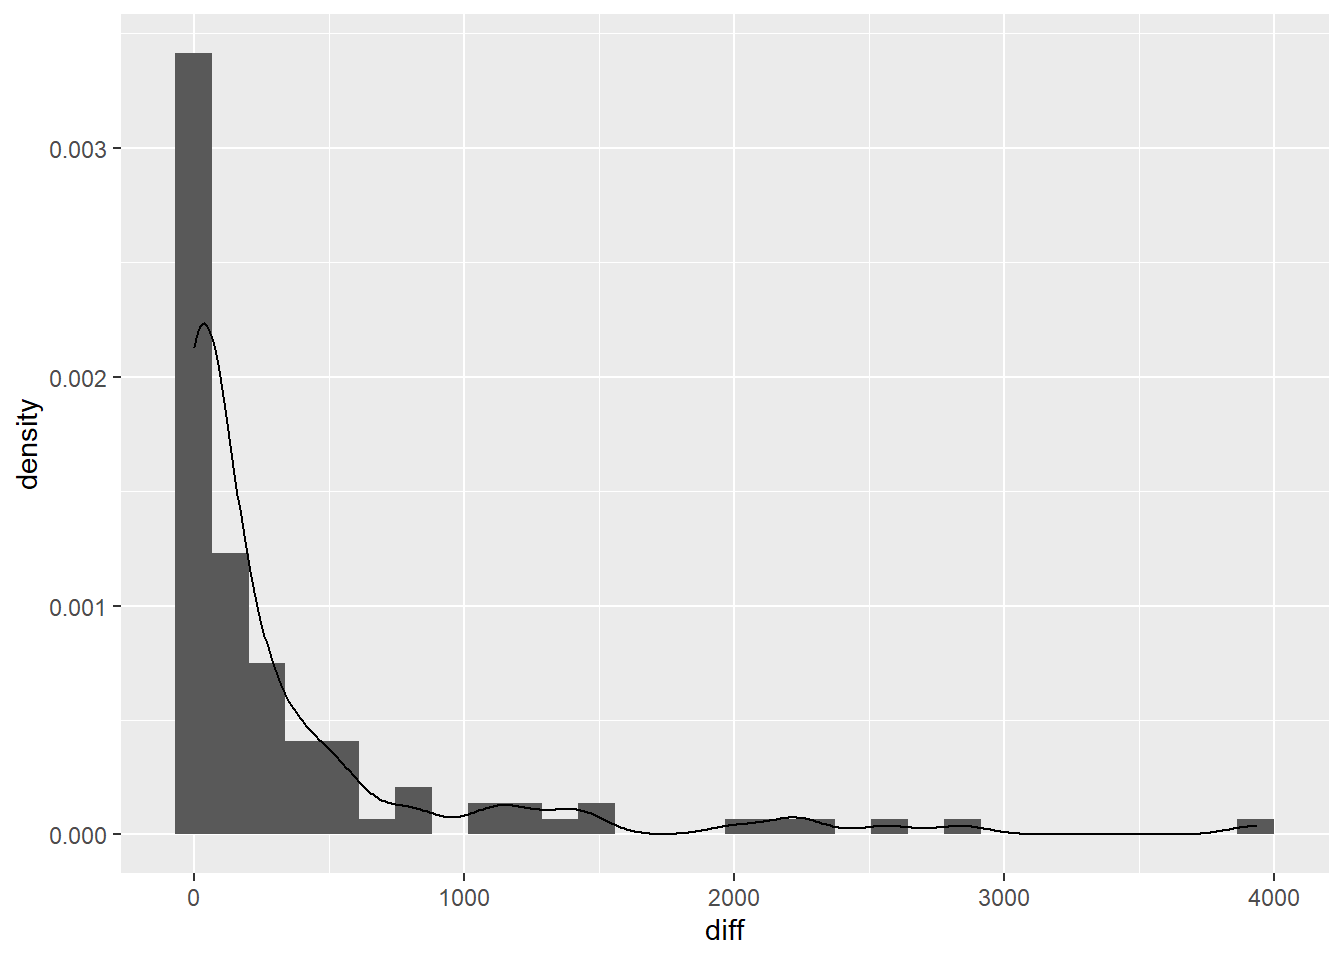
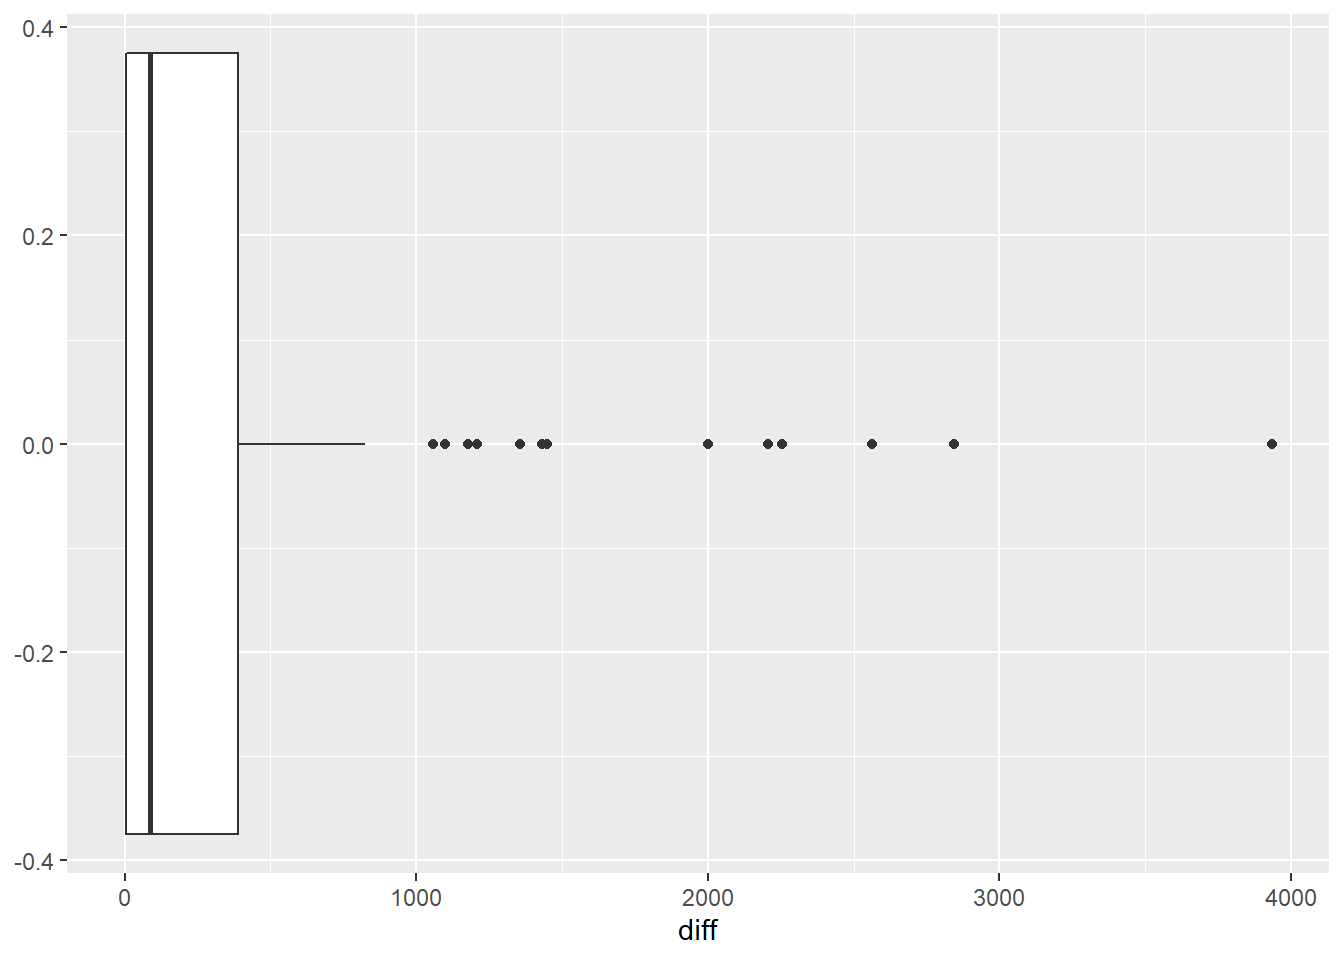
better formatting for article #1

diff --git a/docs/EarthQuakeProbability/Analysis.html b/docs/EarthQuakeProbability/Analysis.html
@@ -198,14 +198,9 @@ cookieconsent.run({
 <div class="cell">
 
 </div>
-<div class="cell">
-
-</div>
 <section id="eda" class="level2">
 <h2 class="anchored" data-anchor-id="eda">EDA</h2>
 <p>Let’s look and visualize the historical earthquake data.</p>
-<section id="spatial-data" class="level3">
-<h3 class="anchored" data-anchor-id="spatial-data">Spatial data</h3>
 <div class="cell">
 <div class="cell-output-display">
 
@@ -217,32 +212,15 @@ cookieconsent.run({
 </div>
 </div>
 <div class="cell">
-<div class="cell-output cell-output-stdout">
-<pre><code>Reading layer `ADM_ADM_0' from data source 
-  `C:\Users\murat\Desktop\projects\MyDsProjects\EarthQuakeProbability\gadm41_TUR.gpkg' 
-  using driver `GPKG'
-Simple feature collection with 1 feature and 2 fields
-Geometry type: MULTIPOLYGON
-Dimension:     XY
-Bounding box:  xmin: 25.66514 ymin: 35.81543 xmax: 44.83499 ymax: 42.10666
-Geodetic CRS:  WGS 84</code></pre>
-</div>
 <div class="cell-output-display">
 <p><img src="Analysis_files/figure-html/unnamed-chunk-4-1.png" class="img-fluid" width="672"></p>
 </div>
 </div>
-</section>
 <section id="time-span-between-earthquake-occurrences" class="level3">
 <h3 class="anchored" data-anchor-id="time-span-between-earthquake-occurrences">Time Span between Earthquake Occurrences</h3>
 <div class="cell">
-<div class="cell-output cell-output-stdout">
-<pre><code>      diff        
- Min.   :   0.00  
- 1st Qu.:   5.75  
- Median :  88.00  
- Mean   : 358.88  
- 3rd Qu.: 387.25  
- Max.   :3933.00  </code></pre>
+<div class="cell-output-display">
+<p><img src="Analysis_files/figure-html/unnamed-chunk-5-1.png" class="img-fluid" width="672"></p>
 </div>
 </div>
 <div class="cell">
@@ -250,17 +228,12 @@ Geodetic CRS:  WGS 84</code></pre>
 <p><img src="Analysis_files/figure-html/unnamed-chunk-6-1.png" class="img-fluid" width="672"></p>
 </div>
 </div>
-<div class="cell">
-<div class="cell-output-display">
-<p><img src="Analysis_files/figure-html/unnamed-chunk-7-1.png" class="img-fluid" width="672"></p>
-</div>
-</div>
 </section>
 <section id="earthquake-count-by-year" class="level3">
 <h3 class="anchored" data-anchor-id="earthquake-count-by-year">Earthquake Count By Year</h3>
 <div class="cell">
 <div class="cell-output-display">
-<p><img src="Analysis_files/figure-html/unnamed-chunk-8-1.png" class="img-fluid" width="672"></p>
+<p><img src="Analysis_files/figure-html/unnamed-chunk-7-1.png" class="img-fluid" width="672"></p>
 </div>
 </div>
 </section>
@@ -270,71 +243,96 @@ Geodetic CRS:  WGS 84</code></pre>
 <p>Let’s fit Weibull distribution to distribution of days between two earthquakes occurred successively.</p>
 <div class="cell">
 <div class="cell-output-display">
-<p><img src="Analysis_files/figure-html/unnamed-chunk-9-1.png" class="img-fluid" width="672"></p>
+<p><img src="Analysis_files/figure-html/unnamed-chunk-8-1.png" class="img-fluid" width="672"></p>
 </div>
 </div>
-<div class="cell">
-<div class="cell-output-display">
-<p><img src="Analysis_files/figure-html/unnamed-chunk-10-1.png" class="img-fluid" width="672"></p>
-</div>
-<div class="cell-output cell-output-stdout">
-<pre><code>summary statistics
-------
-min:  0   max:  3933 
-median:  88 
-mean:  358.8796 
-estimated sd:  664.7659 
-estimated skewness:  3.002915 
-estimated kurtosis:  13.22284 </code></pre>
-</div>
-</div>
-<div class="cell">
-
-</div>
+<p>Check convergence, 0 means procedure was converged:</p>
 <div class="cell">
 <div class="cell-output cell-output-stdout">
 <pre><code>[1] 0</code></pre>
 </div>
 </div>
-<div class="cell">
-<div class="cell-output cell-output-stdout">
-<pre><code>Fitting of the distribution ' weibull ' by maximum likelihood 
-Parameters : 
-         estimate  Std. Error
-shape   0.3647605  0.02945412
-scale 124.4717945 34.36191532
-Loglikelihood:  -618.5651   AIC:  1241.13   BIC:  1246.494 
-Correlation matrix:
-          shape     scale
-shape 1.0000000 0.2931453
-scale 0.2931453 1.0000000</code></pre>
-</div>
-</div>
+<p>Results:</p>
+<ul>
+<li><p>Estimate</p>
+<table class="table">
+<thead>
+<tr class="header">
+<th style="text-align: left;"></th>
+<th>x</th>
+<th style="text-align: right;">sd</th>
+</tr>
+</thead>
+<tbody>
+<tr class="odd">
+<td style="text-align: left;">shape</td>
+<td>0.3647605</td>
+<td style="text-align: right;">0.0294541</td>
+</tr>
+<tr class="even">
+<td style="text-align: left;">scale</td>
+<td>124.4717945</td>
+<td style="text-align: right;">34.3619153</td>
+</tr>
+</tbody>
+</table></li>
+<li><p>Fit quality:</p>
+<table class="table">
+<thead>
+<tr class="header">
+<th style="text-align: left;"></th>
+<th style="text-align: right;">value</th>
+</tr>
+</thead>
+<tbody>
+<tr class="odd">
+<td style="text-align: left;">loglik</td>
+<td style="text-align: right;">-618.5651</td>
+</tr>
+<tr class="even">
+<td style="text-align: left;">aic</td>
+<td style="text-align: right;">1241.13</td>
+</tr>
+<tr class="odd">
+<td style="text-align: left;">bic</td>
+<td style="text-align: right;">1246.494</td>
+</tr>
+</tbody>
+</table></li>
+<li><p>Plots:</p>
 <div class="cell">
 <div class="cell-output-display">
-<p><img src="Analysis_files/figure-html/unnamed-chunk-14-1.png" class="img-fluid" width="672"></p>
+<p><img src="Analysis_files/figure-html/unnamed-chunk-13-1.png" class="img-fluid" width="672"></p>
 </div>
-</div>
+</div></li>
+</ul>
 <p>Let’s calculate mean occurence period of earthquakes which have magnitudes equal or bigger than 5 (simulation and theoretical mean):</p>
 <div class="cell">
-<div class="cell-output cell-output-stdout">
-<pre><code>[1] "Simulated mean:"</code></pre>
+
 </div>
-<div class="cell-output cell-output-stdout">
-<pre><code>[1] 535.668</code></pre>
-</div>
-<div class="cell-output cell-output-stdout">
-<pre><code>[1] "Theoretical mean:"</code></pre>
-</div>
-<div class="cell-output cell-output-stdout">
-<pre><code>[1] 545.0535</code></pre>
-</div>
-</div>
+<table class="table">
+<thead>
+<tr class="header">
+<th style="text-align: left;"></th>
+<th style="text-align: right;">value</th>
+</tr>
+</thead>
+<tbody>
+<tr class="odd">
+<td style="text-align: left;">Simulated mean</td>
+<td style="text-align: right;">535.6679525</td>
+</tr>
+<tr class="even">
+<td style="text-align: left;">Theoretical mean</td>
+<td style="text-align: right;">545.0535056</td>
+</tr>
+</tbody>
+</table>
 <p>It is expected to have another earthquake having magnitude equal to 5 or above are average 545 days later than the preceding one.</p>
 <p>Let’s plot the CDF:</p>
 <div class="cell">
 <div class="cell-output-display">
-<p><img src="Analysis_files/figure-html/unnamed-chunk-16-1.png" class="img-fluid" width="672"></p>
+<p><img src="Analysis_files/figure-html/unnamed-chunk-15-1.png" class="img-fluid" width="672"></p>
 </div>
 </div>
 <p>If we look the data, the last earthquake was occurred at 2006-10-24, so 5753 days passed since last earthquake was occurred. The risk of an earthquake happening today is 98 %.</p>

diff --git a/docs/index.html b/docs/index.html
@@ -172,7 +172,7 @@ Support my work from here GitHub Sponsors.">
 
 <div class="quarto-listing quarto-listing-container-default" id="listing-listing">
 <div class="list quarto-listing-default">
-<div class="quarto-post image-right" data-index="0" data-listing-date-sort="1661634000000" data-listing-file-modified-sort="1661715302132" data-listing-reading-time-sort="4.835">
+<div class="quarto-post image-right" data-index="0" data-listing-date-sort="1661634000000" data-listing-file-modified-sort="1661715609419" data-listing-reading-time-sort="4.805">
 <div class="thumbnail">
 <p><a href="./MissingData/Analysis.html"> <img src="./MissingData/images/paste-82A43477.png" class="thumnail-image"> </a></p>
 </div>
@@ -228,7 +228,7 @@ Murat Koptur
 </a>
 </div>
 </div>
-<div class="quarto-post image-right" data-index="2" data-listing-date-sort="1661374800000" data-listing-file-modified-sort="1661582884541" data-listing-reading-time-sort="1.5">
+<div class="quarto-post image-right" data-index="2" data-listing-date-sort="1661374800000" data-listing-file-modified-sort="1661935803331" data-listing-reading-time-sort="1.5">
 <div class="thumbnail">
 <a href="./EarthQuakeProbability/Analysis.html">
 <div class="thumbnail-image">
